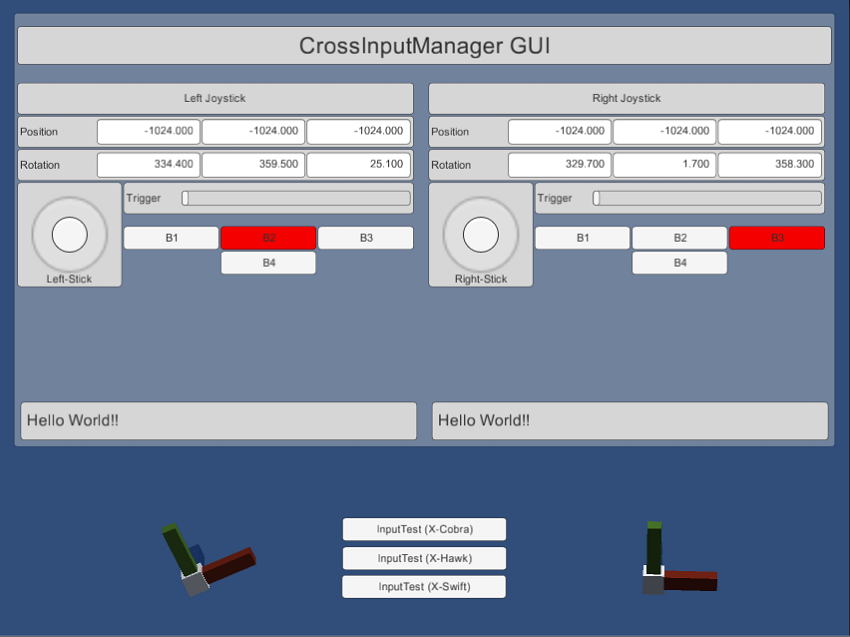
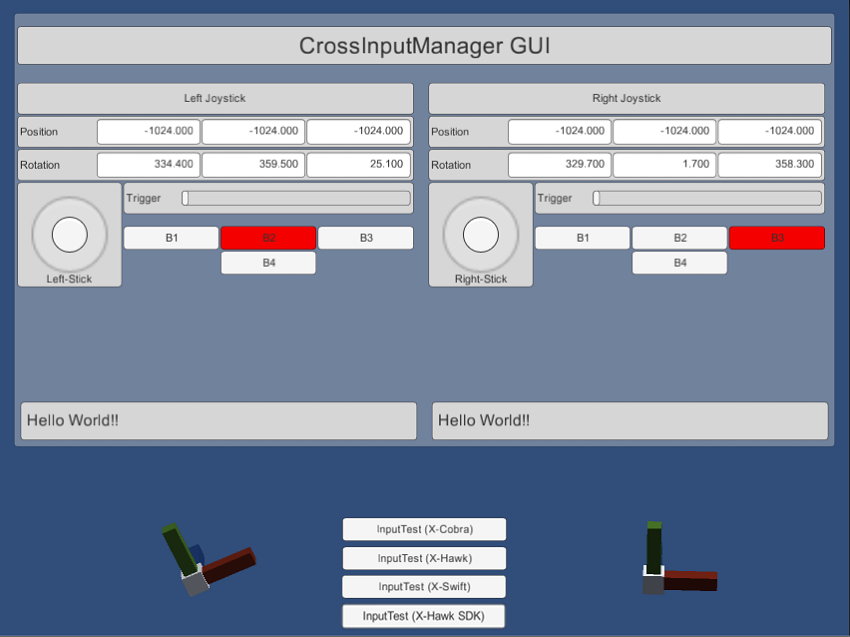
refine tools

Changed region(s): [[0.3976, 0.9246, 0.6118, 1.0]]

diff --git a/Tools/README.md b/Tools/README.md
@@ -2,20 +2,18 @@
 
 **Table of Contents** <br />
 - [1 Tracking HID Demo](#anchor-tracking-hid) <br />
-- [2 CrossInputManager](#anchor-crossinputmanager) <br />
+- [2 CrossInputManager Demo](#anchor-crossinputmanager) <br />
 	- [2.1 InputTest (X-Hawk)](#anchor-inputtest-hawk) <br />
-	- [2.2 InputTest (X-Cobra)](#anchor-inputtest-cobra) <br />
-	- [2.3 InputTest (X-Swift)](#anchor-inputtest-swift) <br />
-- [3 IMU Calibration](#anchor-imu-cal) <br />
+	- [2.2 InputTest (X-Hawk SDK)](#anchor-inputtest-hawk-sdk) <br />
+	- [2.3 InputTest (X-Cobra)](#anchor-inputtest-cobra) <br />
+	- [2.4 InputTest (X-Swift)](#anchor-inputtest-swift) <br />
+- [3 X-Console Tool](#anchor-console) <br />
+- [4 IMU Calibration Tool](#anchor-imu-cal) <br />
 
-**Update History**
-- 01/26/2016: Add CrossInputManager and X-Console tools.
-- 01/23/2016: Refine Tracking_hid tool: support Windows 10.
-- 01/11/2016: Add Tracking_hid and IMU_cal_tool_V1 tools.
 
-- - -
+* * *
 
-## <a name="anchor-tracking-hid"></a> Tracking HID Demo
+## <a name="anchor-tracking-hid"></a> 1 Tracking HID Demo
 ### Hardware Requirement
 1. Ximmerse X-Hawk
 	<div align = center>
@@ -55,10 +53,10 @@
 
 
 * * *
-## <a name="anchor-crossinputmanager"></a> CrossInputManager
+## <a name="anchor-crossinputmanager"></a> 2 CrossInputManager Demo
 This tool enables us to obtain X-Cobra's information (including position, rotation, axis, trigger and buttons, etc.) as well as X-Swift's information (i.e. rotation). It further contains three modes, i.e. `InputTest (X-Hawk)`, `InputTest (X-Cobra)` and `InputTest (X-Swift)`.
 
-### <a name="anchor-inputtest-hawk"></a> `InputTest (X-Hawk)`
+### <a name="anchor-inputtest-hawk"></a> 2.1 `InputTest (X-Hawk)`
 The hardware requirement and setup steps are the same as the above tracking HID demo except the last step replaced by the following:
 
 - Run CrossInputManager by following steps
@@ -71,7 +69,16 @@ Once done, you will be able to obtain the detailed X-Cobra's information (includ
 
 ![](imgs/CrossInputManagerGUI_XHawk.png)
 
-### <a name="anchor-inputtest-cobra"></a> `InputTest (X-Cobra)`
+### <a name="anchor-inputtest-hawk-sdk"></a> 2.2 `InputTest (X-Hawk SDK)`
+The hardware requirement and setup steps are the same as the above [InputTest (X-Hawk) demo](#anchor-inputtest-hawk) except the very last step replaced by the following:
+
+- Click `InputTest (X-Hawk)` button to activate this mode.
+
+Once done, you will be able to obtain the detailed X-Cobra's information (including position, rotation, axis, trigger and buttons, etc.) through X-Hawk in plain text format.
+
+![](imgs/CrossInputManagerGUI_XHawkSDK.png)
+
+### <a name="anchor-inputtest-cobra"></a> 2.3 `InputTest (X-Cobra)`
 This sample demonstrates how to obtain the detailed X-Cobra's information (including rotation, axis, trigger and buttons, etc.) through Bluetooth USB adapter plugged in PC.
 
 #### Hardware Requirement
@@ -99,7 +106,7 @@ This sample demonstrates how to obtain the detailed X-Cobra's information (inclu
 		- For Win8 or Win10: `CSR8510 Bluetooth USB Adapter -> Windows 8 -> win32/64 -> CSRBlueCoreUSB.inf ->` right click `-> Install`.
 
 			![](imgs/InstallBluetoothUSBDriver.png)
-3. Connect X-Cobra via X-Console tool. This can be done by:
+3. <a name="anchor-console-cobra"></a> Connect X-Cobra via X-Console tool. This can be done by:
 	1. Turn on X-Cobra by press its power button.
 	2. Download X-Console tool from [here](https://github.com/Ximmerse/SDK/blob/master/Tools/X-Console.zip?raw=true) (ZIP file).
 	2. Unzip the file to your PC.
@@ -125,7 +132,7 @@ Once done, you will be able to obtain the detailed X-Cobra's information (includ
 
 ![](imgs/CrossInputManagerGUI_XCobra.png)
 
-### <a name="anchor-inputtest-swift"></a> `InputTest (X-Swift)`
+### <a name="anchor-inputtest-swift"></a> 2.4 `InputTest (X-Swift)`
 #### Hardware Requirement
 1. Ximmerse X-Swift
 	<div align = center>
@@ -150,7 +157,7 @@ Once done, you will be able to obtain the detailed X-Cobra's information (includ
 		- For Win8 or Win10: `CSR8510 Bluetooth USB Adapter -> Windows 8 -> win32/64 -> CSRBlueCoreUSB.inf ->` right click `-> Install`.
 
 			![](imgs/InstallBluetoothUSBDriver.png)
-3. Connect X-Swift via X-Console tool. This can be done by:
+3. <a name="anchor-console-swift"></a> Connect X-Swift via X-Console tool. This can be done by:
 	1. Turn on X-Swift by press its power button.
 	2. Download X-Console tool from [here](https://github.com/Ximmerse/SDK/blob/master/Tools/X-Console.zip?raw=true) (ZIP file).
 	2. Unzip the file to your PC.
@@ -175,7 +182,24 @@ Once done, you will be able to obtain the detailed X-Swift's information (i.e. r
 
 
 * * *
-## <a name="anchor-imu-cal"></a> IMU Calibration
+## <a name="anchor-console"></a> 3 X-Console Tool
+This tool has three main functionalities:
+
+1. Check whether X-Hawk has been sucessfully connected to PC.
+
+	This can be done by clicking the `Check` button. If connected sucessfully, message `"X-Hawk is found"` will be displayed in the status bar, otherwise message `"X-Hawk is not found"` will be displayed.
+	![](imgs/XConsole.png)
+
+2. Scan and connect X-Cobra to PC via Bluetooth.
+
+	Please refer to [here](#anchor-console-cobra) for details.
+
+3. Scan and connect X-Swift to PC via Bluetooth.
+
+	Please refer to [here](#anchor-console-swift) for details.
+
+* * *
+## <a name="anchor-imu-cal"></a> 4 IMU Calibration Tool
 ### Hardware Requirement
 1. Ximmerse X-Cobra
 	<div align = center>
